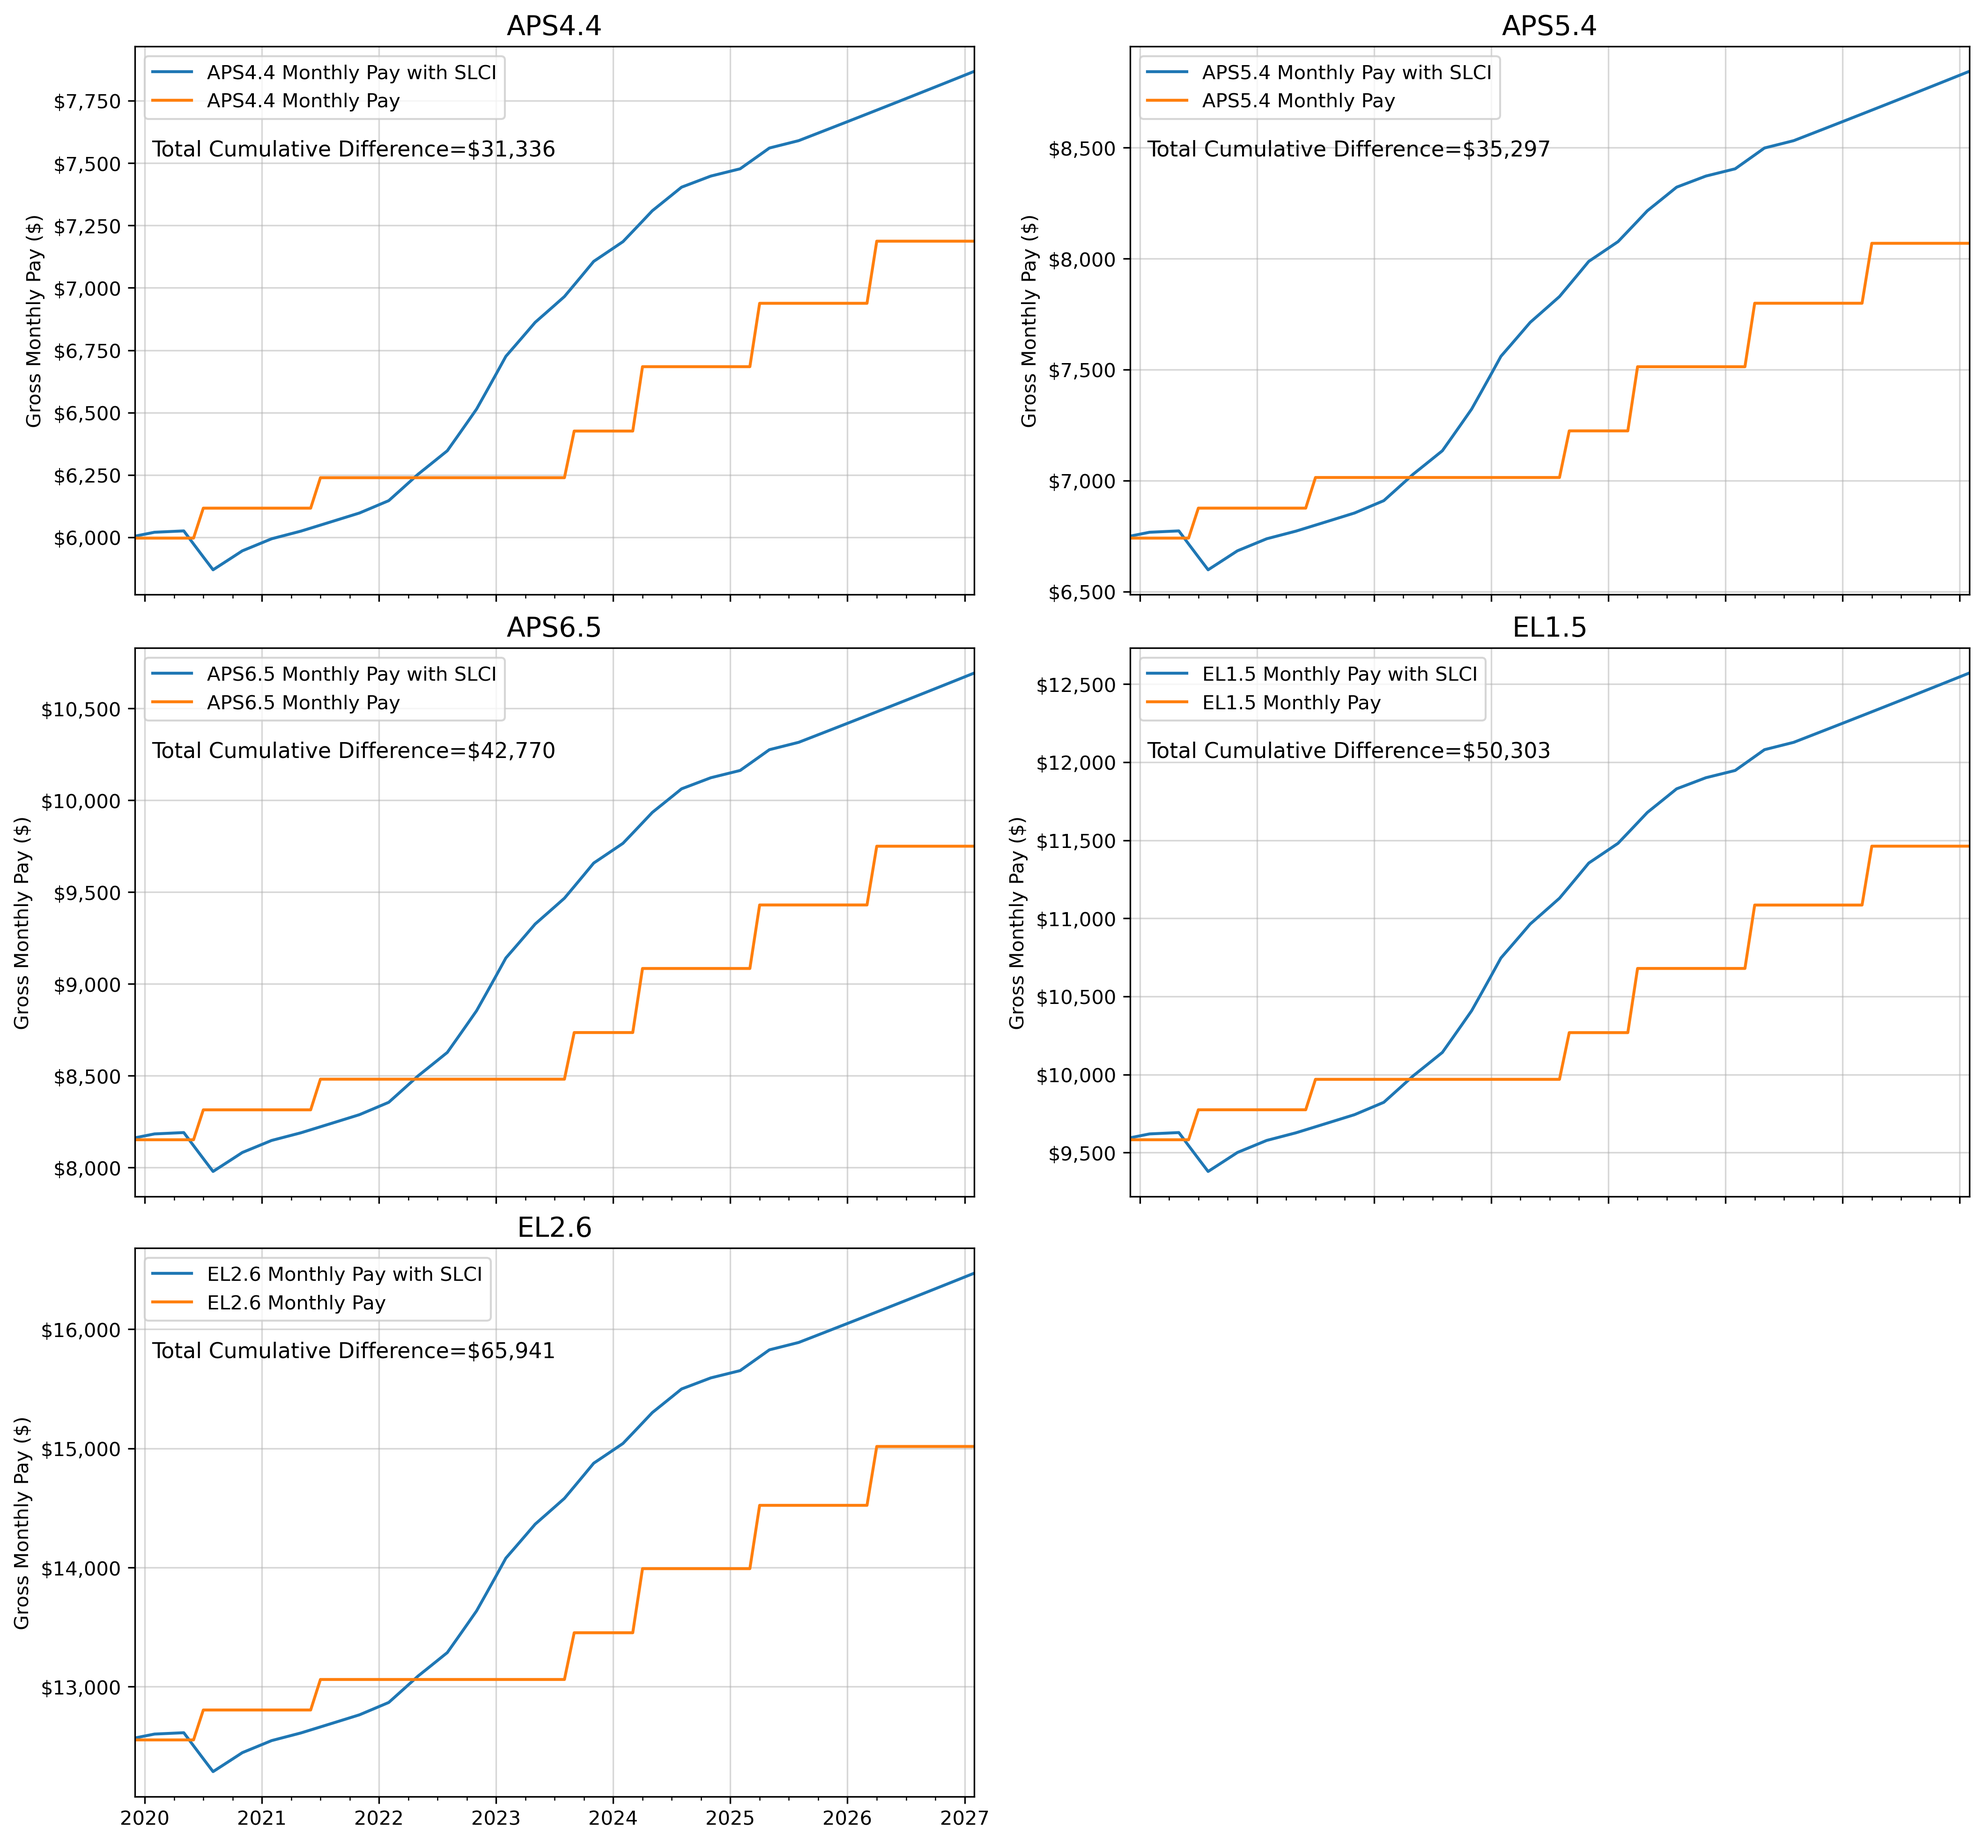
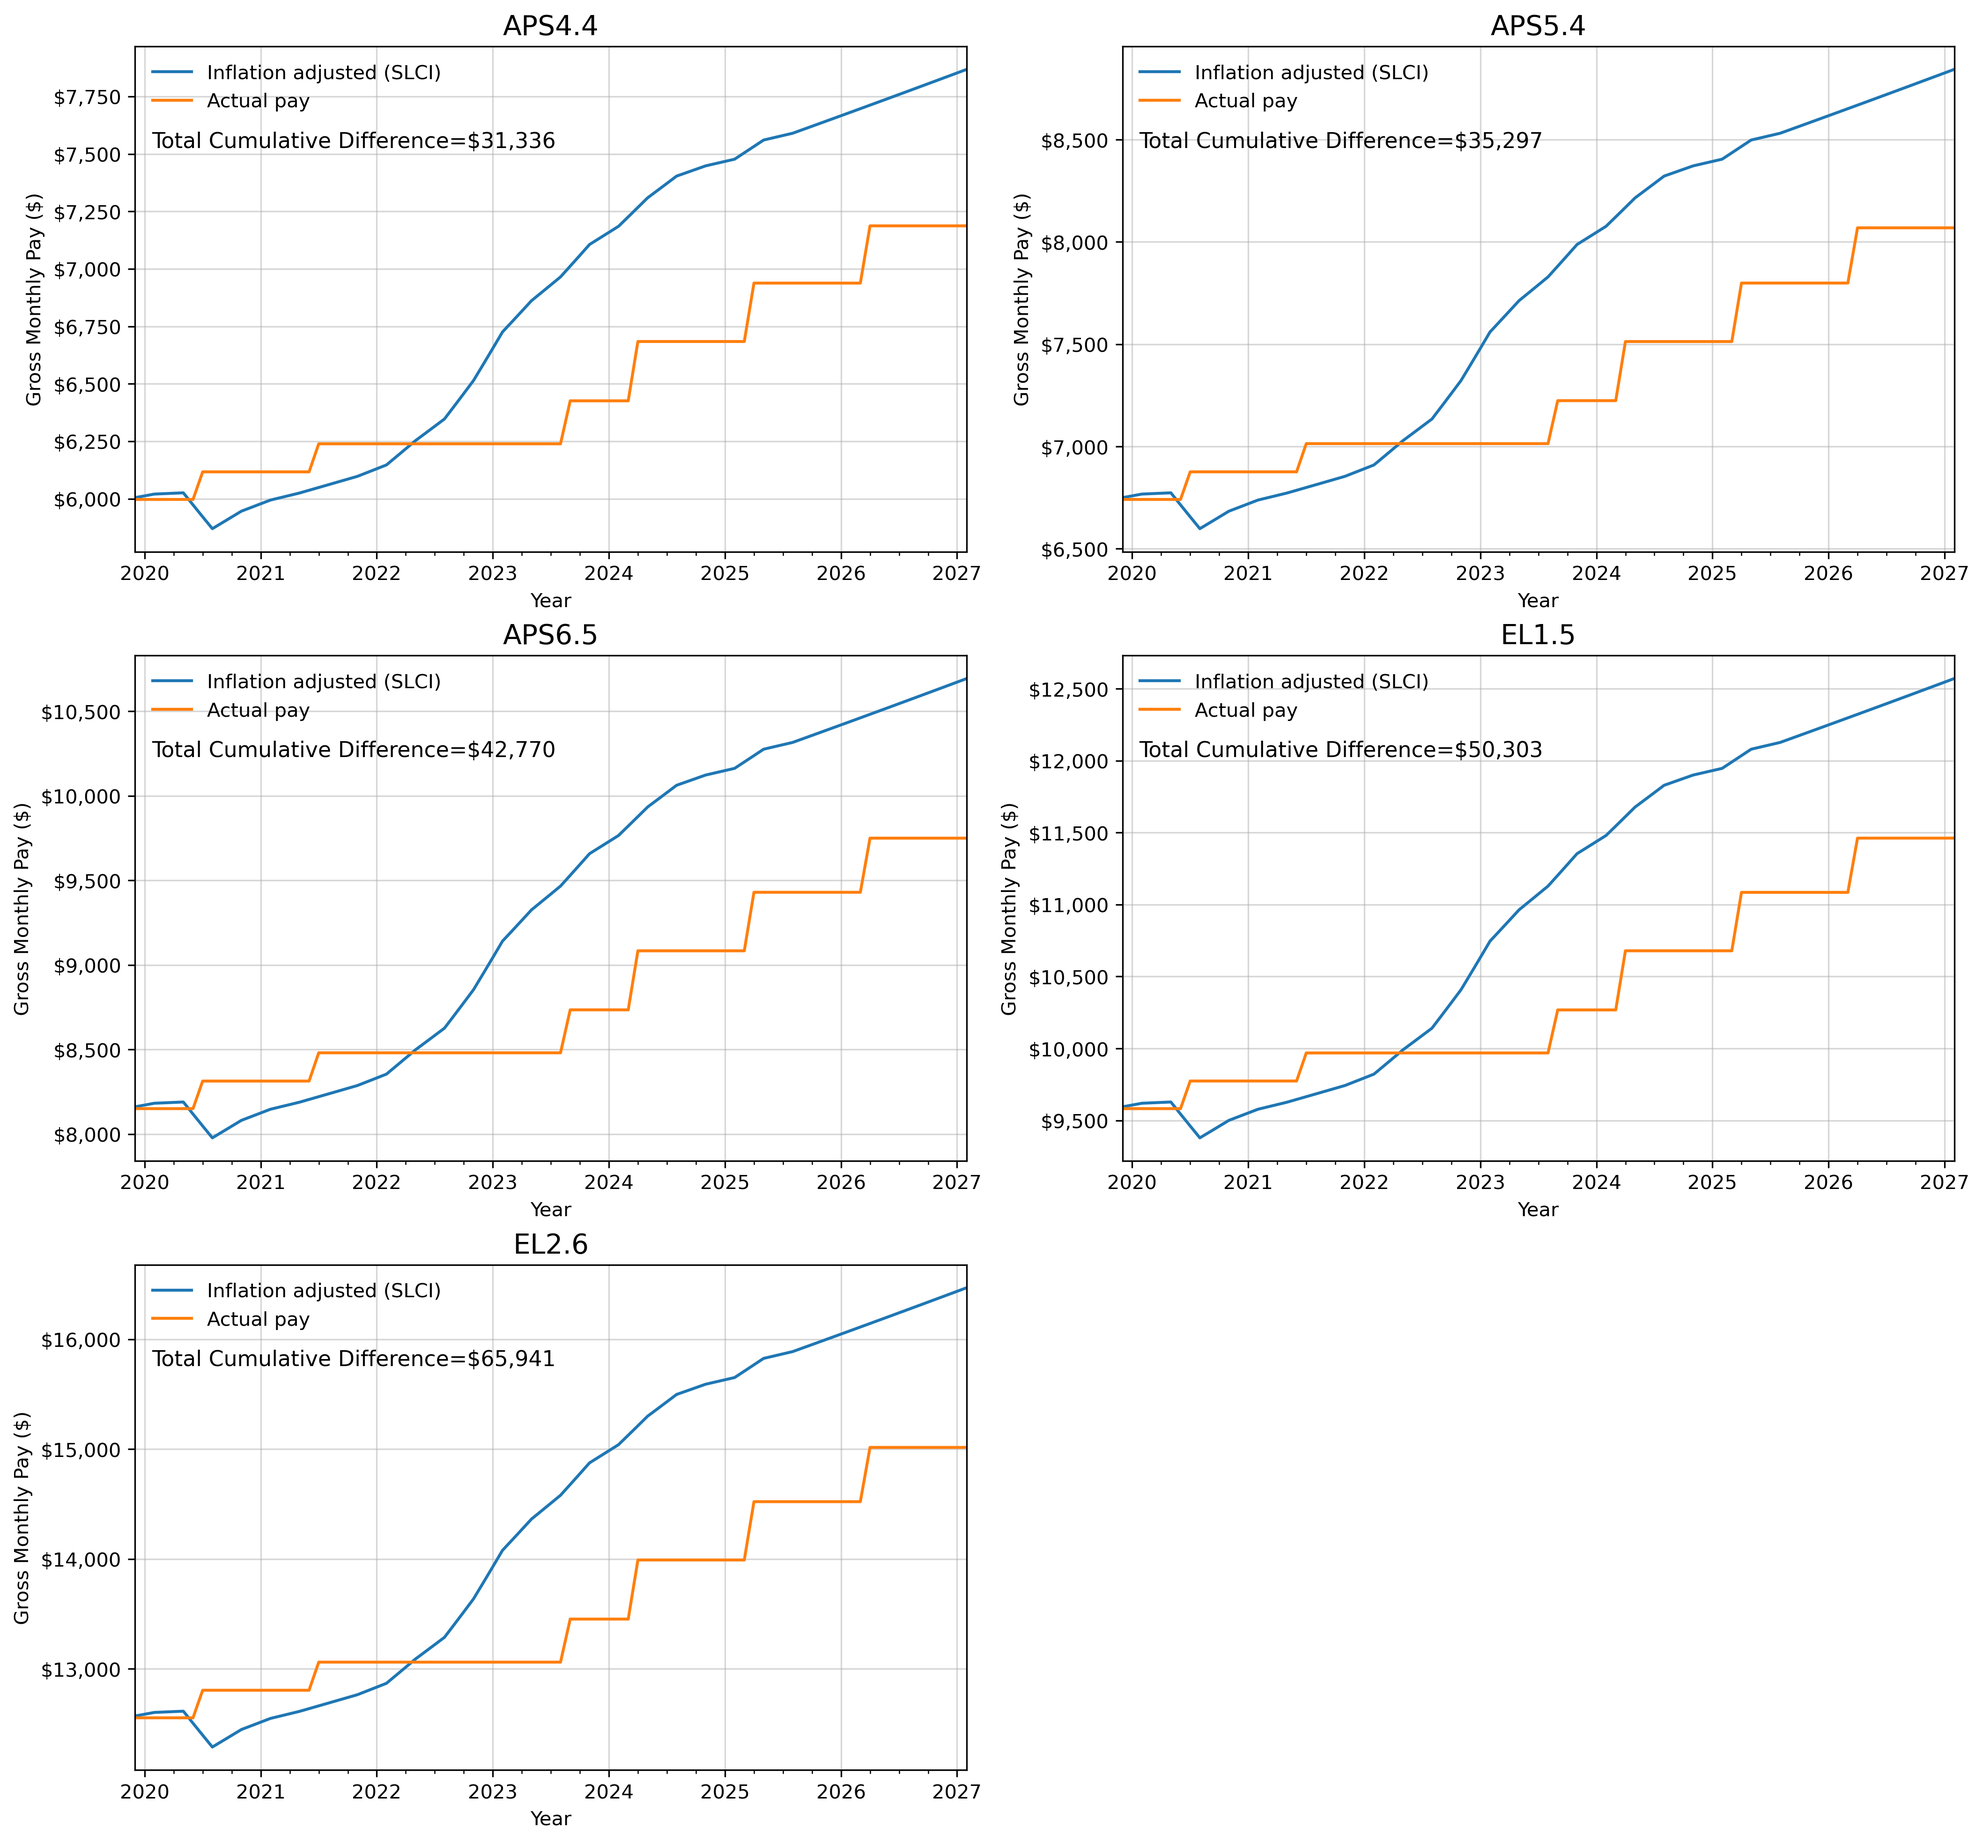
Fix subplot x-axis labels and legend handling

diff --git a/Inflation_plots.py b/Inflation_plots.py
@@ -2,10 +2,12 @@
 import pandas as pd
 import matplotlib.pyplot as plt
 import matplotlib.ticker as mtick
+import matplotlib.dates as mdates
 
 # Data
 pay_classes = ["APS4.4", "APS5.4", "APS6.5", "EL1.5", "EL2.6"]
 df = pd.read_excel('inflation_tables.xlsx', index_col='Pay Date')
+df.index = pd.to_datetime(df.index)
 index_dict = {'SLCI': 'Monthly SLCI', 'CPI': 'Monthly CPI'}
 
 
@@ -34,25 +36,44 @@ for inflation_index in index_dict.keys():
         df[f"{pay_level} cumulative difference"] = df[f"{pay_level} Difference"].cumsum()
 
     # Plot
-    fig, axes = plt.subplots(3,2, figsize=(14,13), sharex=True, layout='constrained')
+    fig, axes = plt.subplots(3, 2, figsize=(14,13), layout='constrained')
+
+    xmin = df.index.min()
+    xmax = df.index.max()
+
+    for a in axes.ravel():
+        a.set_xlim(xmin, xmax)
 
     for pay_level, ax in zip(pay_classes, axes.ravel()):
-        df[f"{pay_level} Monthly Pay with " + inflation_index].plot(ax=ax)
-        df[f"{pay_level} Monthly Pay"].plot(ax=ax)
+        df[f"{pay_level} Monthly Pay with " + inflation_index].plot(
+            ax=ax, label=f"Inflation adjusted ({inflation_index})"
+        )
+        df[f"{pay_level} Monthly Pay"].plot(
+            ax=ax, label="Actual pay"
+        )
+
+        years = pd.date_range(xmin, xmax, freq='YS')
+        ax.set_xticks(years)
+        ax.set_xticklabels([y.year for y in years])
+        ax.set_xlabel('Year')
+
         ax.yaxis.set_major_formatter(mtick.StrMethodFormatter('${x:,.0f}'))
         ax.set_ylabel('Gross Monthly Pay ($)')
-        ax.set_xlabel(None)
         ax.grid(alpha=0.5)
         ax.set_title(pay_level, fontsize=14)
-        ax.legend(loc='upper left')
-        ax.text(.02, .8, 
-                'Total Cumulative Difference=${:,.0f}'.
-                format(df[f"{pay_level} cumulative difference"].iloc[-1]),
-                transform=ax.transAxes, fontsize=11)
 
-    # Turn off frame for last subplot
-    axes[2,1].axis("off");
+        ax.legend(loc='upper left', frameon=False, fontsize=10)
 
+        
+        ax.text(
+                .02, .8,
+                'Total Cumulative Difference=${:,.0f}'.format(
+                    df[f"{pay_level} cumulative difference"].iloc[-1]
+                ),
+                transform=ax.transAxes, fontsize=11
+            )
+
+    fig.delaxes(axes[2, 1])
     fig.savefig(f'inflation_adjusted_pay_comparison_' + inflation_index + '.png', bbox_inches='tight', dpi=300)
 
 
